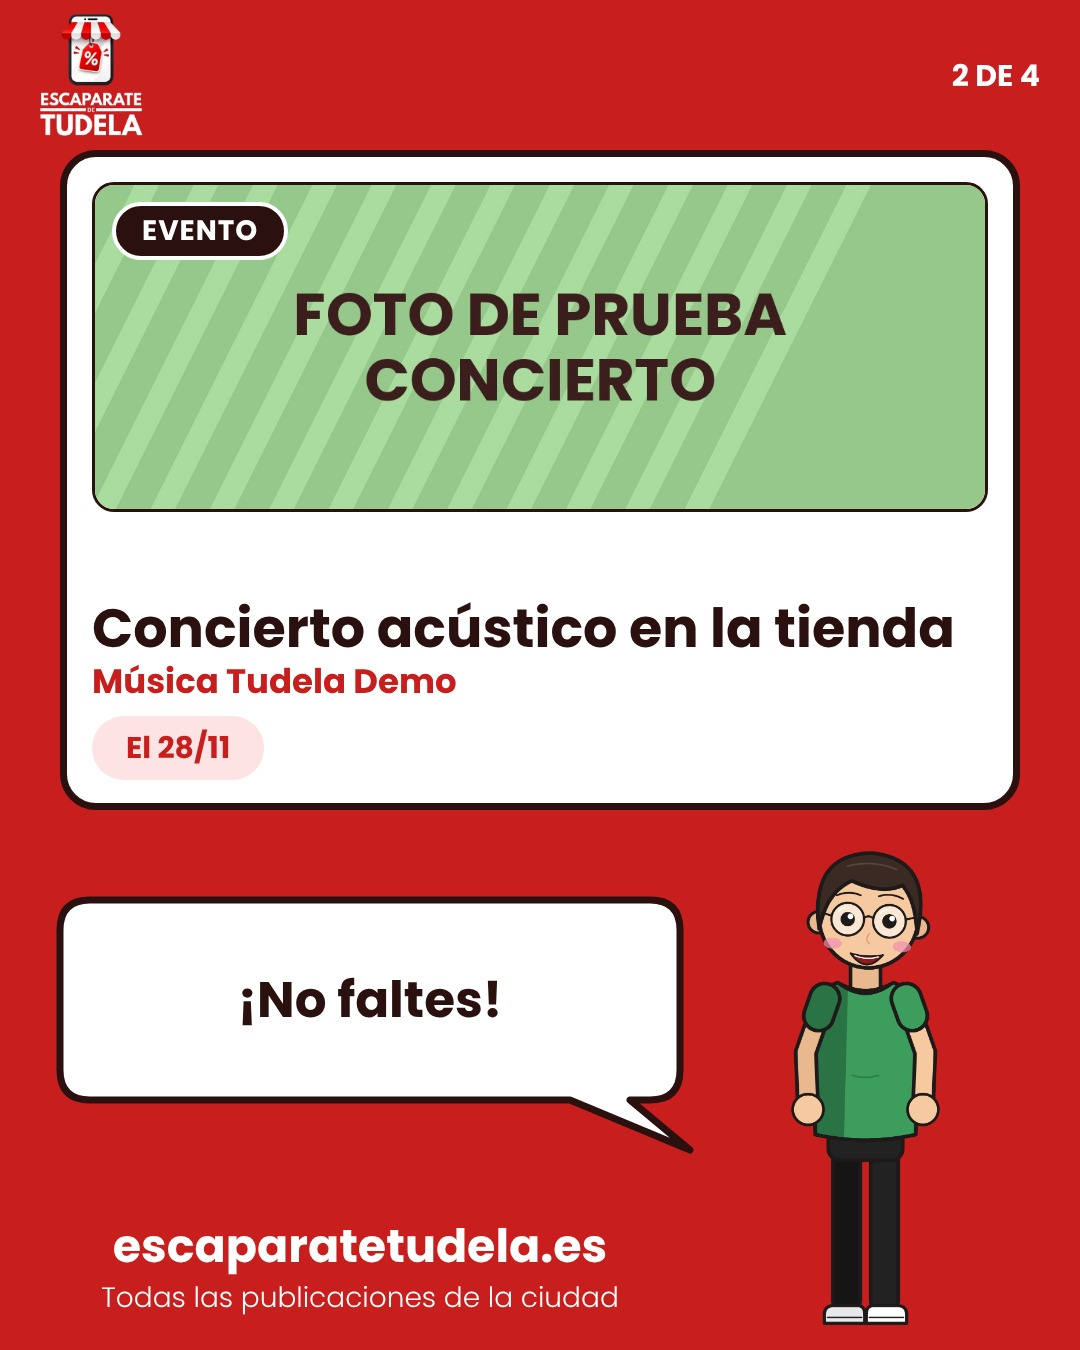
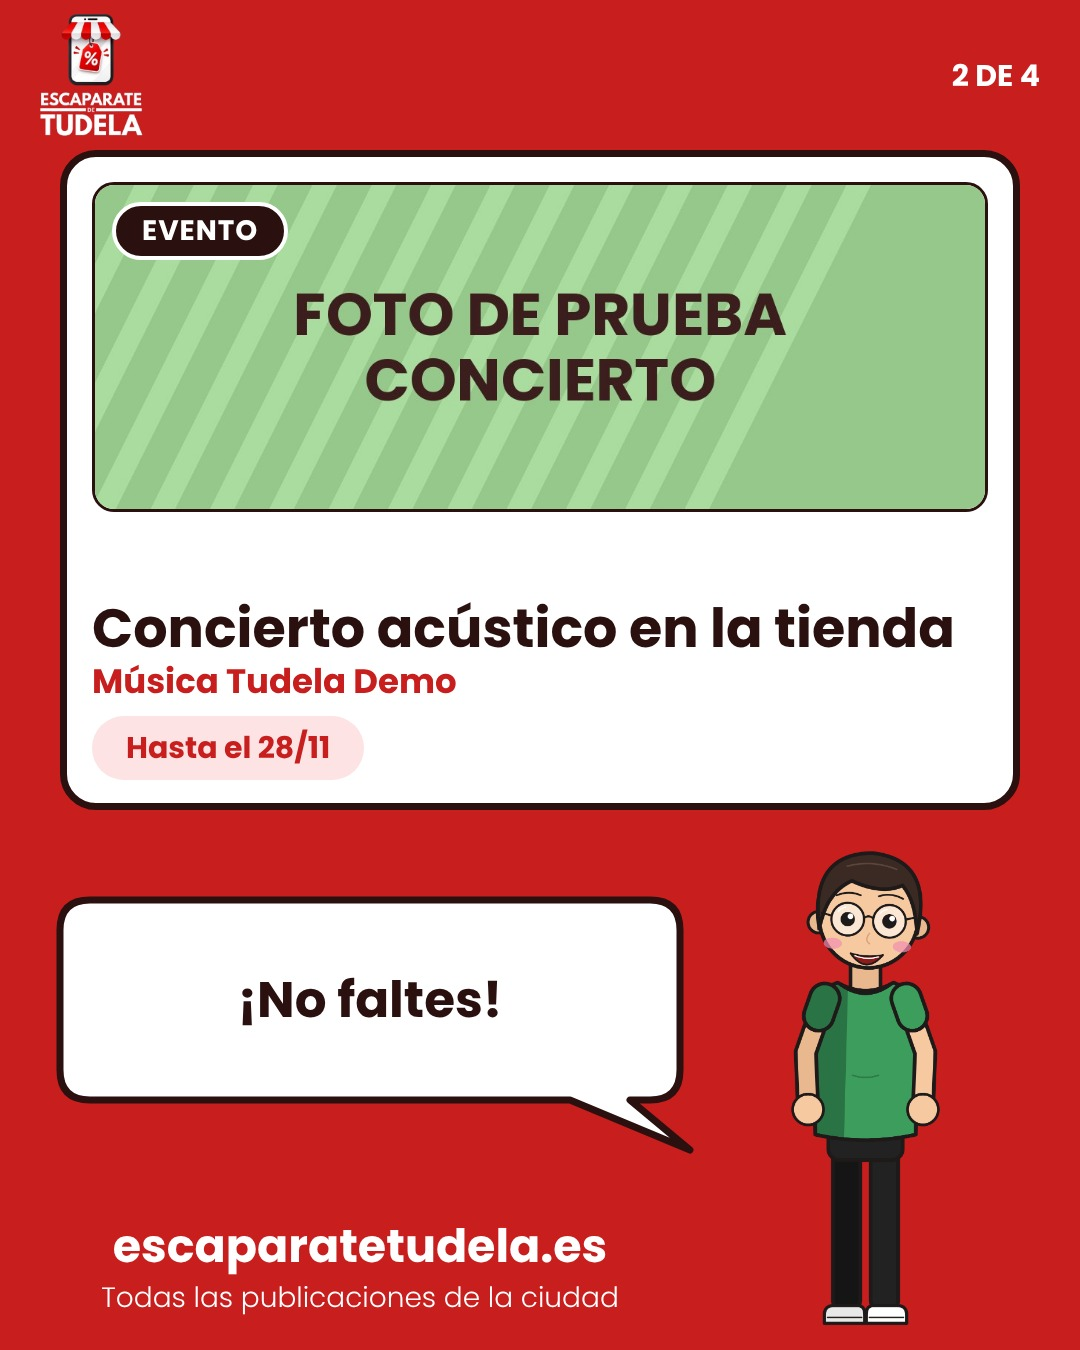
Carrusel: los eventos también muestran 'Hasta el DD/MM'
Claude-Session: https://claude.ai/code/session_01HvcyDkdG4SsKrD9UneUwBb

Changed region(s): [[0.1222, 0.5289, 0.3361, 0.5911]]

diff --git a/carrusel/plantilla/generar.js b/carrusel/plantilla/generar.js
@@ -174,7 +174,7 @@ function contenido(p, i, n, pj, lado, carpeta, hoy) {
   s += caja(92, 530, ancho, 128, `<b style="font-size:54px;color:${DARK}">${esc(p.titulo)}</b>`, 'justify-content:flex-end;align-items:flex-start;text-align:left');
   s += caja(92, 660, ancho, 44, `<b style="font-size:34px;color:${RED};white-space:nowrap">${esc(p.comercio)}</b>`, 'align-items:flex-start;text-align:left');
   let pill = p.texto_fecha;
-  if (!pill && p.fin) pill = p.fin === hoy ? '¡Termina hoy!' : p.tipo === 'evento' ? `El ${ddmm(p.fin)}` : `Hasta el ${ddmm(p.fin)}`;
+  if (!pill && p.fin) pill = p.fin === hoy ? '¡Termina hoy!' : `Hasta el ${ddmm(p.fin)}`;
   if (pill) s += `<div style="position:absolute;left:92px;top:716px;height:64px;padding:0 34px;border-radius:32px;background:${PINK};color:${RED};font-weight:700;font-size:30px;line-height:64px">${esc(pill)}</div>`;
   // personaje + bocadillo: solo se espejan las poses de señalar
   const espejo = !izq && pj.endsWith('senalando');
@@ -207,7 +207,7 @@ function pieDeFoto(pubs, r, hoy) {
     const icono = { oferta: '🏷', novedad: '✨', evento: '📅' }[p.tipo] || '🏷';
     let f = '';
     if (p.texto_fecha) f = ` (${p.texto_fecha})`;
-    else if (p.fin) f = p.fin === hoy ? ' (¡termina hoy!)' : p.tipo === 'evento' ? ` (el ${ddmm(p.fin)})` : ` (hasta el ${ddmm(p.fin)})`;
+    else if (p.fin) f = p.fin === hoy ? ' (¡termina hoy!)' : ` (hasta el ${ddmm(p.fin)})`;
     return `${icono} ${p.descuento ? p.descuento + ' · ' : ''}${p.titulo} — ${p.comercio}${f}`;
   };
   return `ASUNTO: Carrusel Instagram · publicaciones ${r.asunto}

diff --git a/carrusel/README.md b/carrusel/README.md
@@ -31,7 +31,7 @@ Los logos son `../logo_blanco.png` (sobre rojo) y `../logo_rojo.png` (pantalla d
 ```
 
    - `tipo`: `oferta`, `novedad` o `evento`. `descuento` es opcional (-20 %, 2x1…).
-   - `fin` (AAAA-MM-DD) da la píldora: "Hasta el DD/MM", "¡Termina hoy!" si es `hoy`, y "El DD/MM" en eventos. `texto_fecha` la sustituye por un texto libre.
+   - `fin` (AAAA-MM-DD) da la píldora: "Hasta el DD/MM", "¡Termina hoy!" si es `hoy`. `texto_fecha` la sustituye por un texto libre.
    - Rango del asunto y la portada: de `hoy` −3 a +3 días (se puede forzar con `desde` / `hasta`).
    - Máximo 8: se usan las que terminan antes.
 
